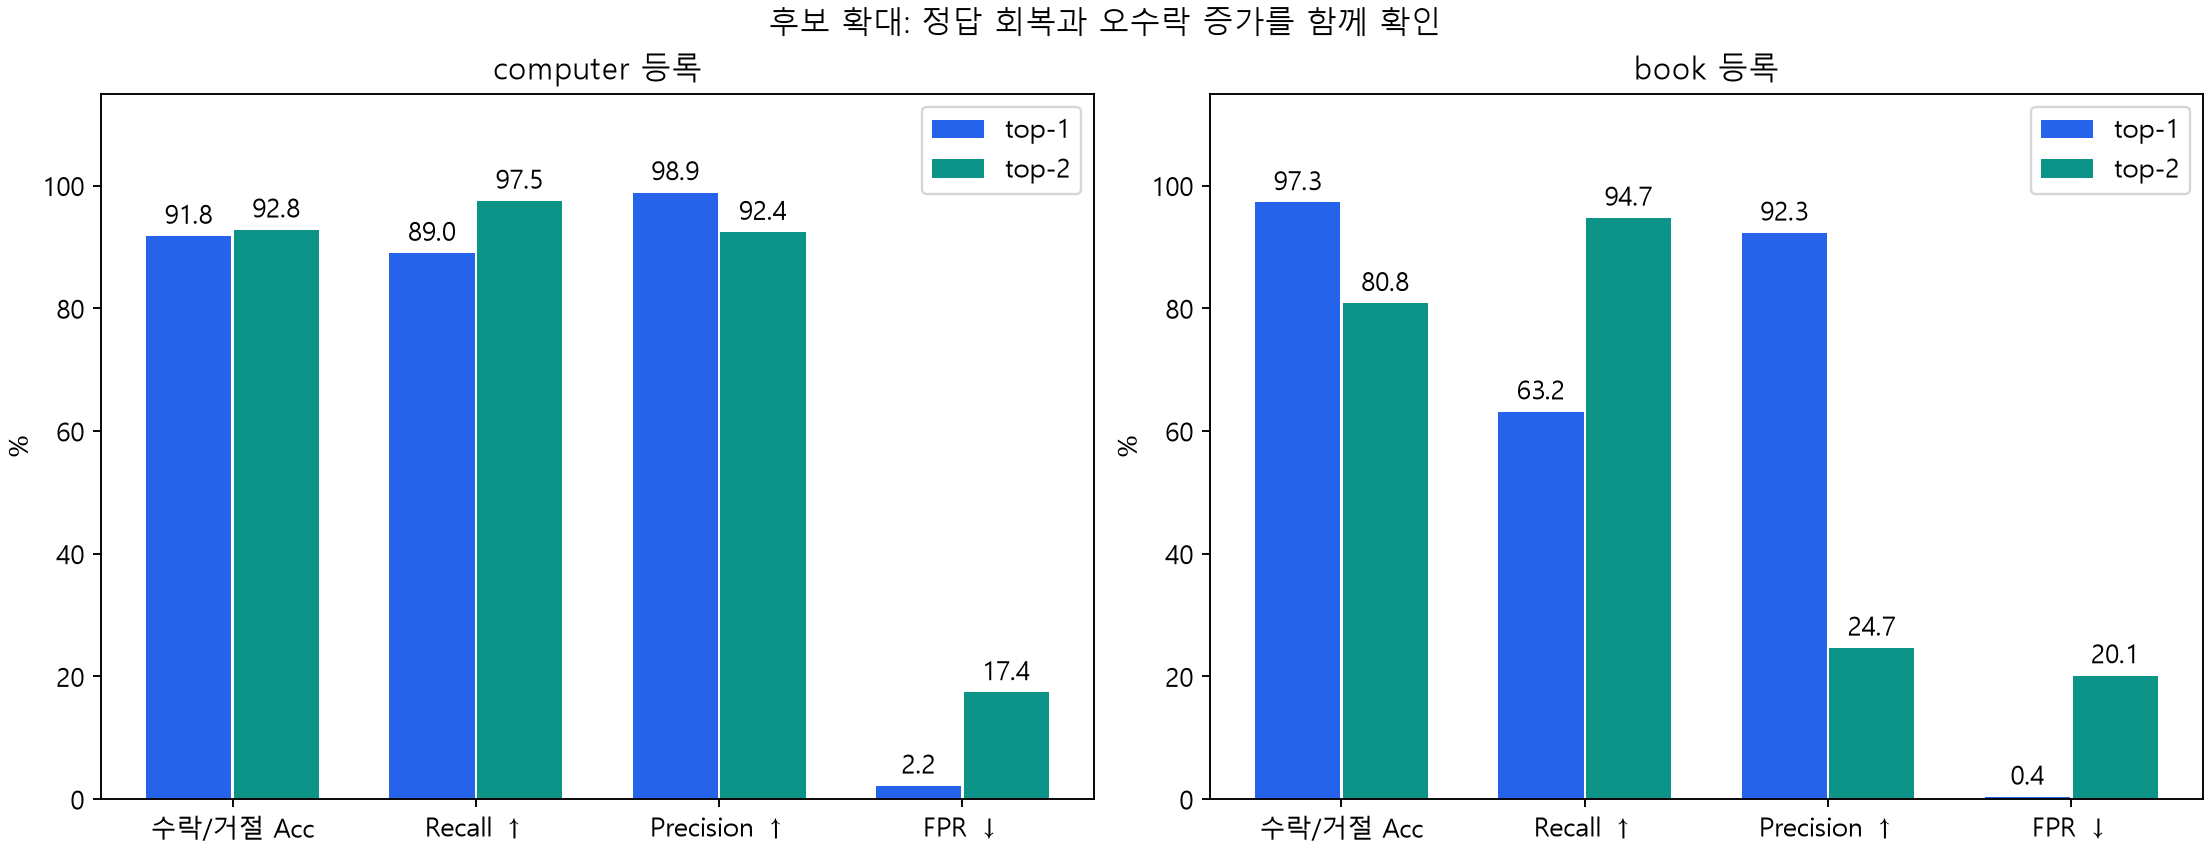
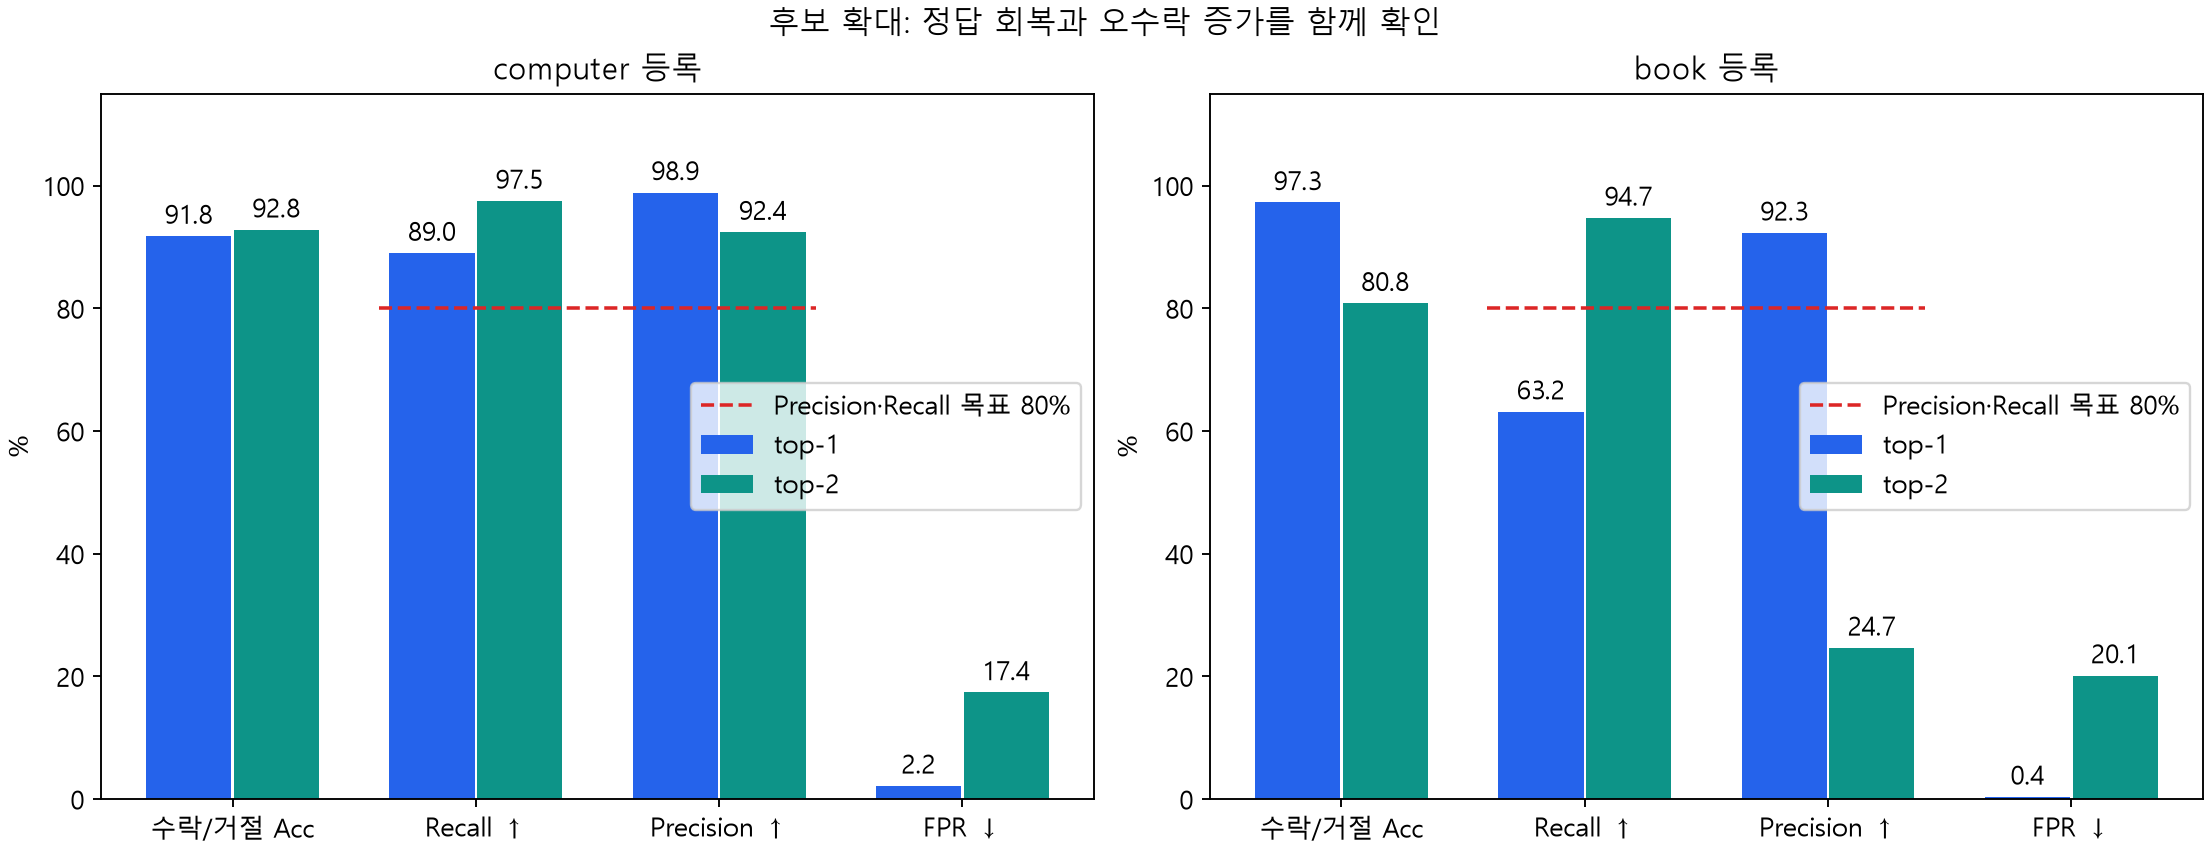
add first report

diff --git a/scripts/build_photo_report.py b/scripts/build_photo_report.py
@@ -32,6 +32,8 @@ def main():
     config = snapshot["config"]
     models, binary, hashes = [], [], {}
     for name in snapshot["selected_models"]:
+        if name == "yolov8n":
+            continue  # Excluded from the presentation; preserve original cached runs.
         content = (args.run / name / "detections.json").read_bytes()
         hashes[name] = hashlib.sha256(content).hexdigest()
         raw = json.loads(content)
@@ -49,7 +51,11 @@ def main():
     args.output.mkdir(parents=True, exist_ok=True)
     write_json(args.output / "metrics.json", {"source_run": args.run.name, "images": len(snapshot["images"]),
         "source_counts": snapshot["evaluated_source_counts"], "detections_sha256": hashes,
-        "criteria": config["report_criteria"], "top1": models, "category_verification": binary})
+        "historical_run_criteria": config["report_criteria"],
+        "presentation_targets": {"accuracy": .90, "minimum_accuracy": .80,
+            "precision": .80, "recall": .80, "proposed_fpr": .05, "proposed_fnr": .05,
+            "error_targets_status": "pending_PO_approval", "accuracy_priority_status": "pending_PO_approval"},
+        "top1": models, "category_verification": binary})
     write_csv(args.output / "category-verification.csv", binary)
     write_csv(args.output / "top1-models.csv", [{"model": m["model"], "accuracy": m["accuracy"],
         "macro_precision": m["macro"]["precision"], "macro_recall": m["macro"]["recall"],
@@ -69,7 +75,7 @@ def main():
         bars = axes[0].barh(x + offset, vals, .25, label=title, color=color)
         axes[0].bar_label(bars, fmt="%.1f", fontsize=8)
     axes[0].set(yticks=x, yticklabels=[m["model"] for m in models], xlim=(0, 112), xlabel="%", title="Top-1: 정확도와 클래스 균형 성능")
-    for v, label, color in [(80, "최소 Acc 80%", "#64748b"), (90, "목표 Acc 90%", "#dc2626")]:
+    for v, label, color in [(80, "최소 Acc / Precision·Recall 목표 80%", "#64748b"), (90, "목표 Acc 90%", "#dc2626")]:
         axes[0].axvline(v, color=color, linestyle="--", label=label)
     axes[0].legend(fontsize=8, loc="upper center", bbox_to_anchor=(.5, -.09), ncol=3)
     for offset, label, color in [(-.18, "computer", "#2563eb"), (.18, "book", "#f59e0b")]:
@@ -91,10 +97,11 @@ def main():
             for j in range(values.shape[1]):
                 ax.text(j, i, f"{values[i,j]}\n({normalized[i,j]:.1%})", ha="center", va="center",
                         color="white" if normalized[i,j] > .5 else "black")
-    fig, axes = plt.subplots(2, 4, figsize=(18, 9), layout="constrained")
+    fig, axes = plt.subplots(2, 3, figsize=(15, 9), layout="constrained")
     for ax, m in zip(axes.flat, models):
         matrix(ax, m["confusion_matrix"], m["class_order"], m["class_order"], m["model"])
-    axes.flat[-1].axis("off")
+    for ax in list(axes.flat)[len(models):]:
+        ax.axis("off")
     fig.suptitle("Top-1 혼동행렬 · 건수와 행 정규화 비율 · 동일한 292장")
     fig.savefig(args.output / "top1-confusion.png", dpi=170)
     plt.close(fig)
@@ -113,6 +120,7 @@ def main():
             bars = ax.bar(np.arange(4) + offset, [100 * b[key] for key in keys], .35, label=f"top-{k}", color=color)
             ax.bar_label(bars, fmt="%.1f", padding=3)
         ax.set(xticks=range(4), xticklabels=["수락/거절 Acc", "Recall ↑", "Precision ↑", "FPR ↓"], ylim=(0, 115), title=f"{label} 등록", ylabel="%")
+        ax.hlines(80, .6, 2.4, color="#dc2626", linestyle="--", label="Precision·Recall 목표 80%")
         ax.legend()
     fig.suptitle("후보 확대: 정답 회복과 오수락 증가를 함께 확인")
     fig.savefig(args.output / "rtmdet-tradeoff.png", dpi=170)
